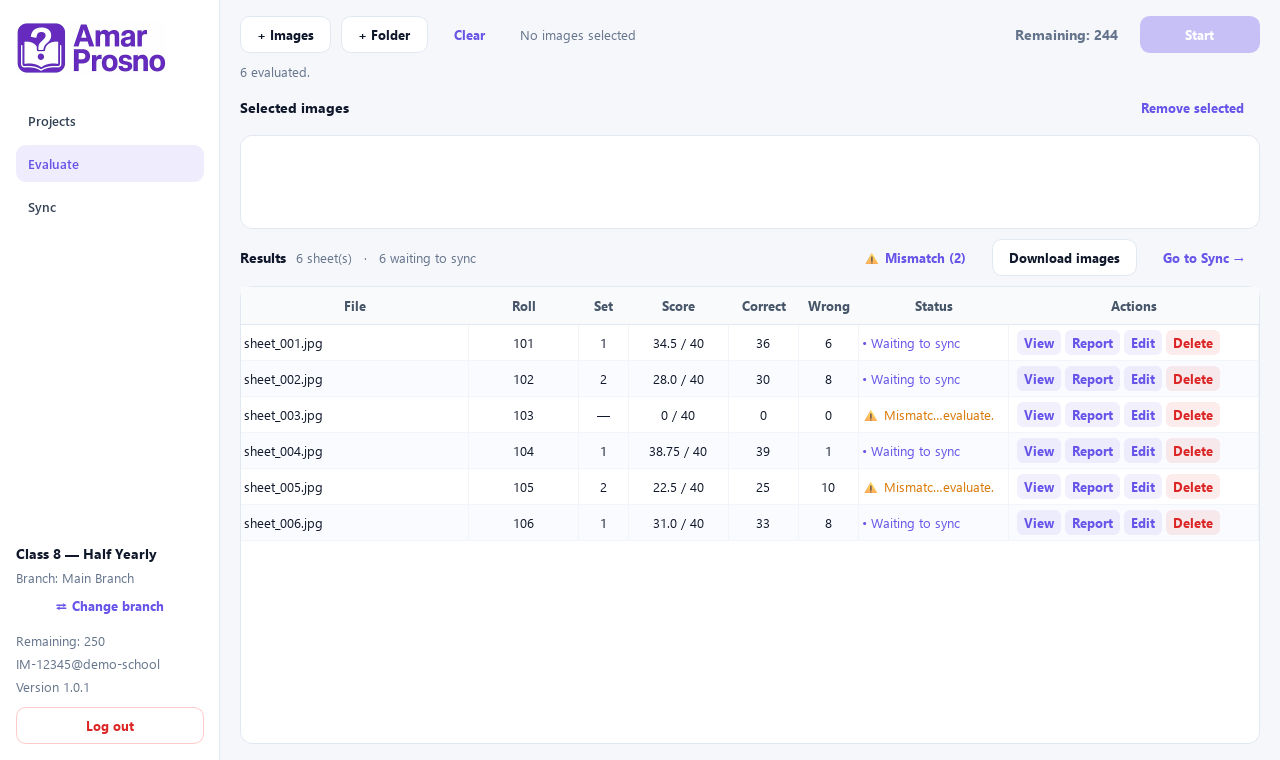
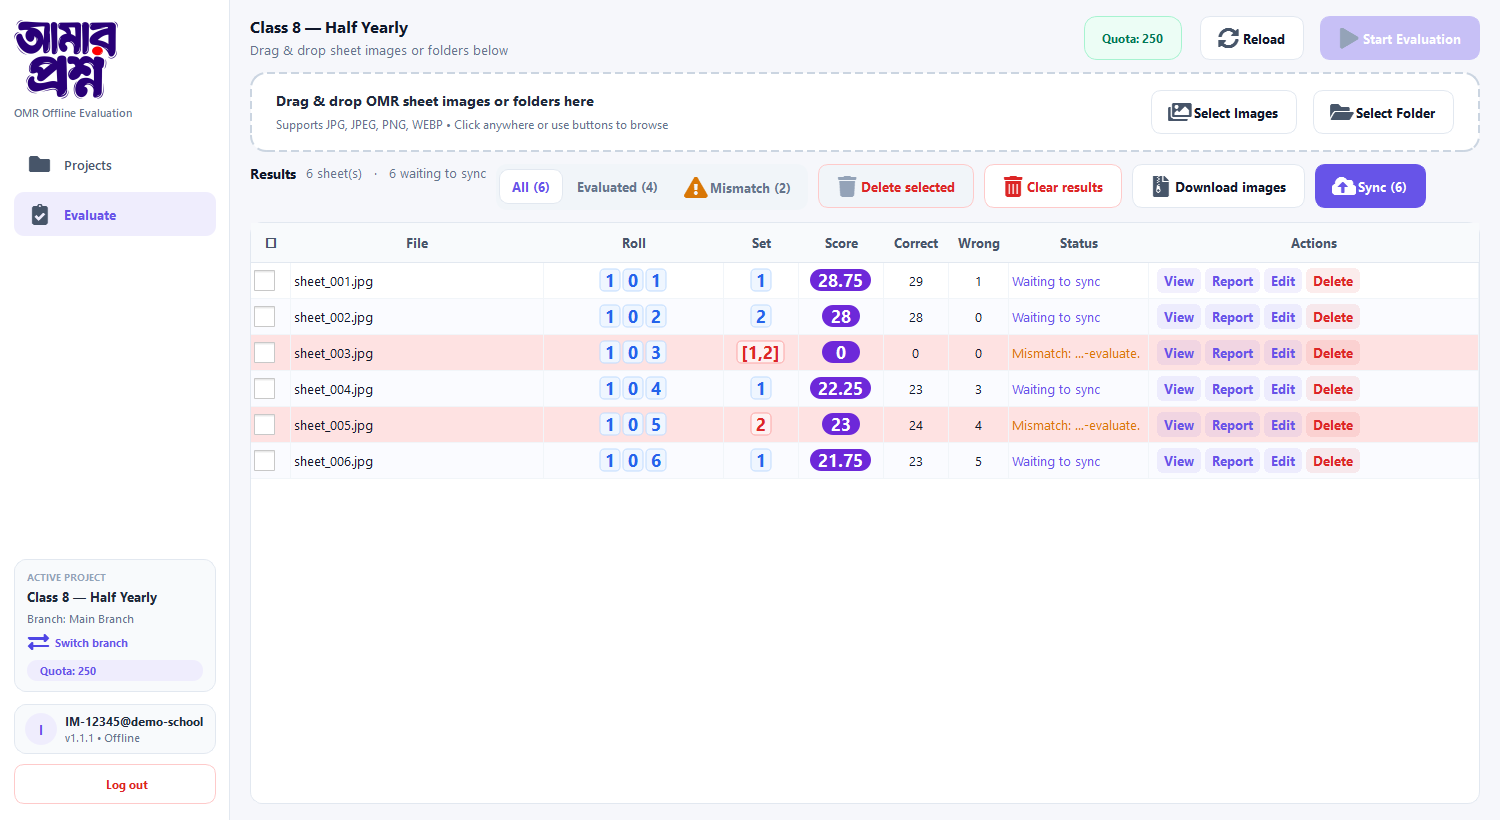
Update user guide screenshots and text to v1.1.1
Re-render all seven guide screenshots from the current app UI (single login
form with Google/Facebook, Switch branch box, Sync button on the Evaluate
page, background update banner) and adjust the README steps to match.

diff --git a/README.md b/README.md
@@ -21,15 +21,16 @@ You only install once — later versions update from inside the app (see [Update
 
 ## 2. Log in
 
-Choose **Institution member** and enter your **institution code**, **member ID**
-and **password** — the same ones you use on the institution portal.
-(A personal amarprosno.com account works too: use **Personal account**.)
+Enter your **Member ID** (for example `IM-12345`) and **password** — the same
+ones you use on the institution portal. A personal amarprosno.com account works
+too: enter your **phone number or email** instead. You can also continue with
+**Google** or **Facebook**.
 
 ![Login](docs/images/1-login.png)
 
 If your institution has more than one branch, pick the branch you work in.
 You will only see that branch's projects, results and credits. You can switch
-later with **⇄ Change branch** at the bottom left.
+later with **Switch branch** in the *Active project* box at the bottom left.
 
 ![Select branch](docs/images/2-branch.png)
 
@@ -39,15 +40,16 @@ later with **⇄ Change branch** at the bottom left.
 
 Projects are created on the website (OMR → Projects). In the app, go to
 **Projects**, select one to see its details (answer sets, marking), and click
-**Open project →**. The project is saved on your computer, so it keeps working
+**Open project**. The project is saved on your computer, so it keeps working
 offline.
 
 ![Projects](docs/images/3-projects.png)
 
 ## 4. Evaluate sheets
 
-1. Click **+ Images** (pick scanned sheets) or **+ Folder** (a whole folder).
-2. Click **Start**.
+1. Drag and drop the scanned sheets (or a whole folder) onto the page, or click
+   **Select Images** / **Select Folder**.
+2. Click **Start Evaluation**.
 3. Each sheet appears in **Results** with roll, set, score, correct and wrong.
 
 ![Evaluate](docs/images/4-evaluate.png)
@@ -61,7 +63,7 @@ offline.
 | **Edit** | Fix the roll or set. Changing the set re-checks the sheet with that set's answers |
 | **Delete** | Removes the result from this computer |
 
-**Remaining** (top right) is how many sheets your credits still allow. Credits
+**Quota** (top right) is how many sheets your credits still allow. Credits
 are used when results are synced.
 
 ## 5. Fix mismatches
@@ -75,8 +77,9 @@ choose the right roll/set, and the sheet is checked again.
 
 ## 6. Sync results to the website
 
-When you have internet, go to **Sync** and click **Sync N result(s)**.
+When you have internet, click **Sync (N)** at the top of the **Evaluate** page.
 Only the results are sent (no images), so it is quick even on mobile data.
+Sheets that are already sent show **Synced** in the *Status* column.
 The results then appear in the project on amarprosno.com.
 
 ![Sync](docs/images/6-sync.png)
@@ -86,8 +89,9 @@ page — it saves them all (with a `results.csv`) in one ZIP file.
 
 ## 7. Updates
 
-When a new version is released, the app tells you when you open it.
-Click **Update now** — it downloads, installs and reopens by itself.
+When a new version is released, the app downloads it in the background and
+shows a bar at the top. When it says the update is ready, click **Restart & Update** —
+it installs and reopens by itself (or choose **Later**).
 Your projects, results and login are kept.
 
 ![Update available](docs/images/7-update.png)
